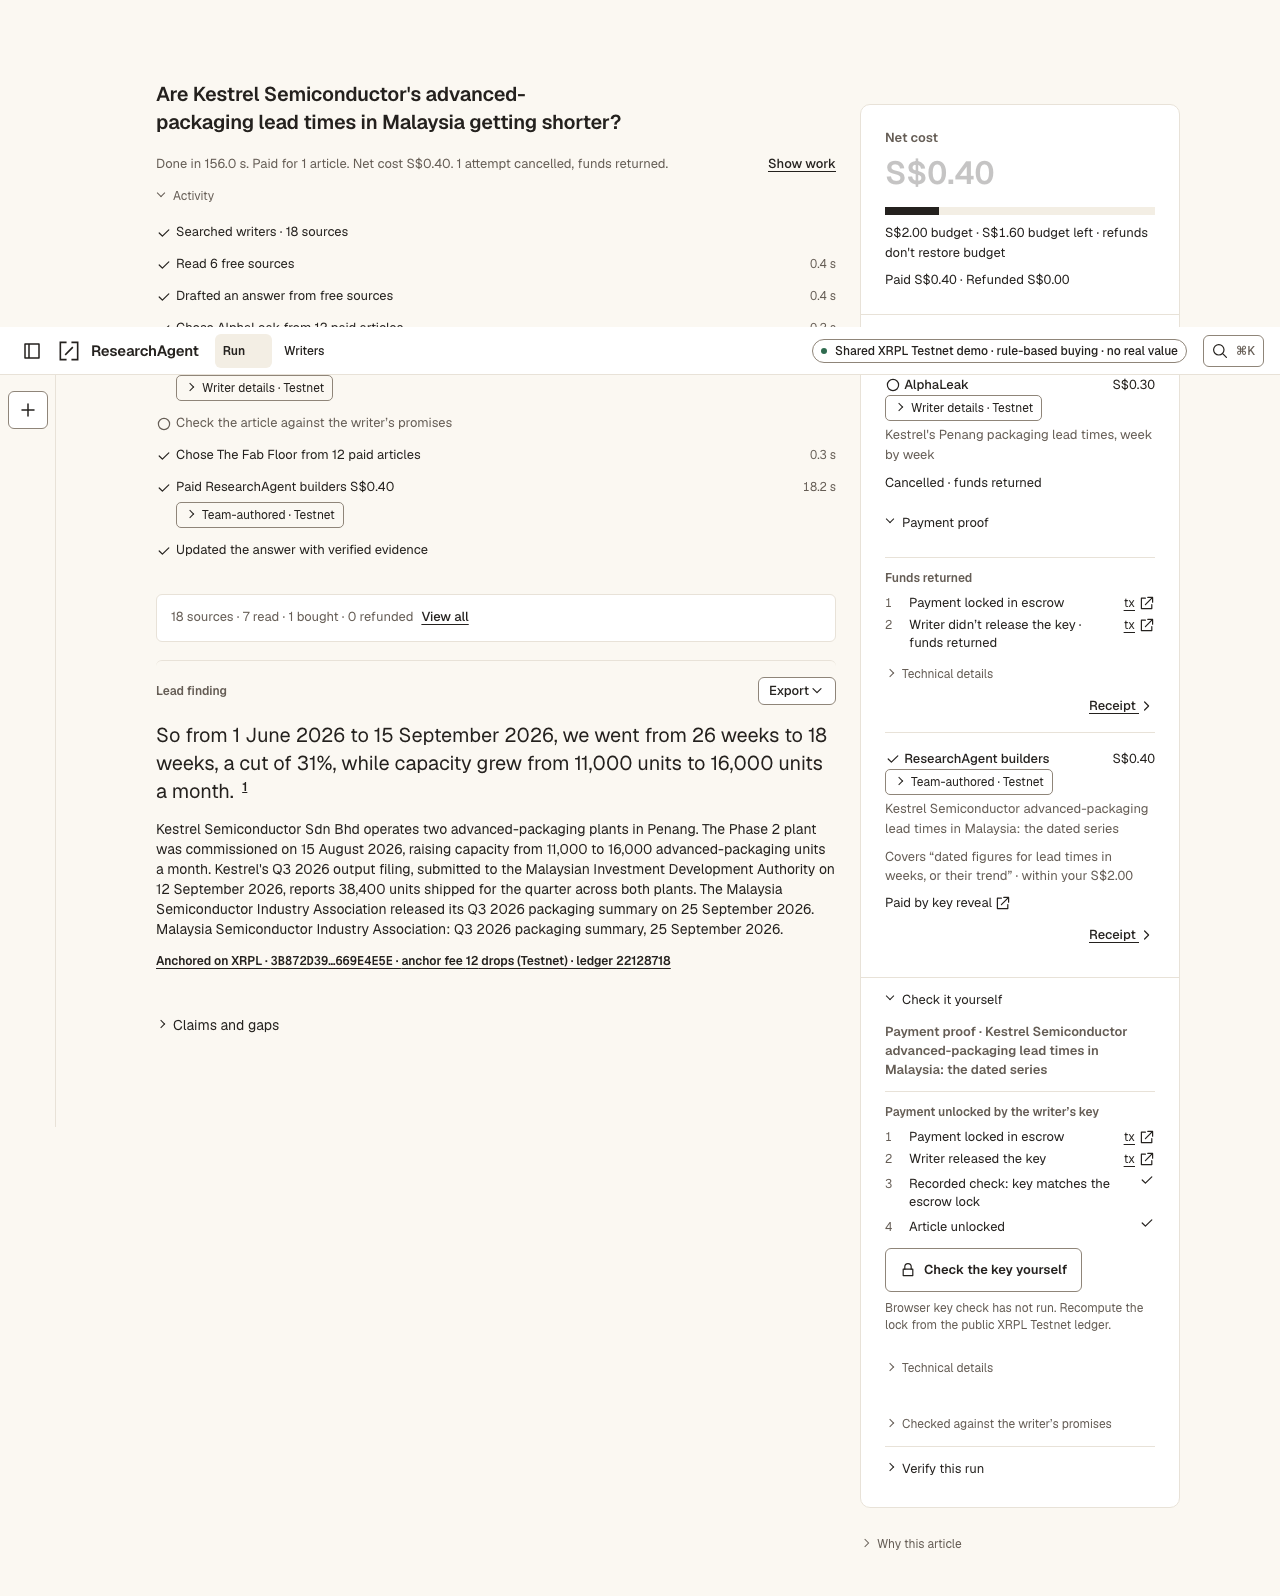
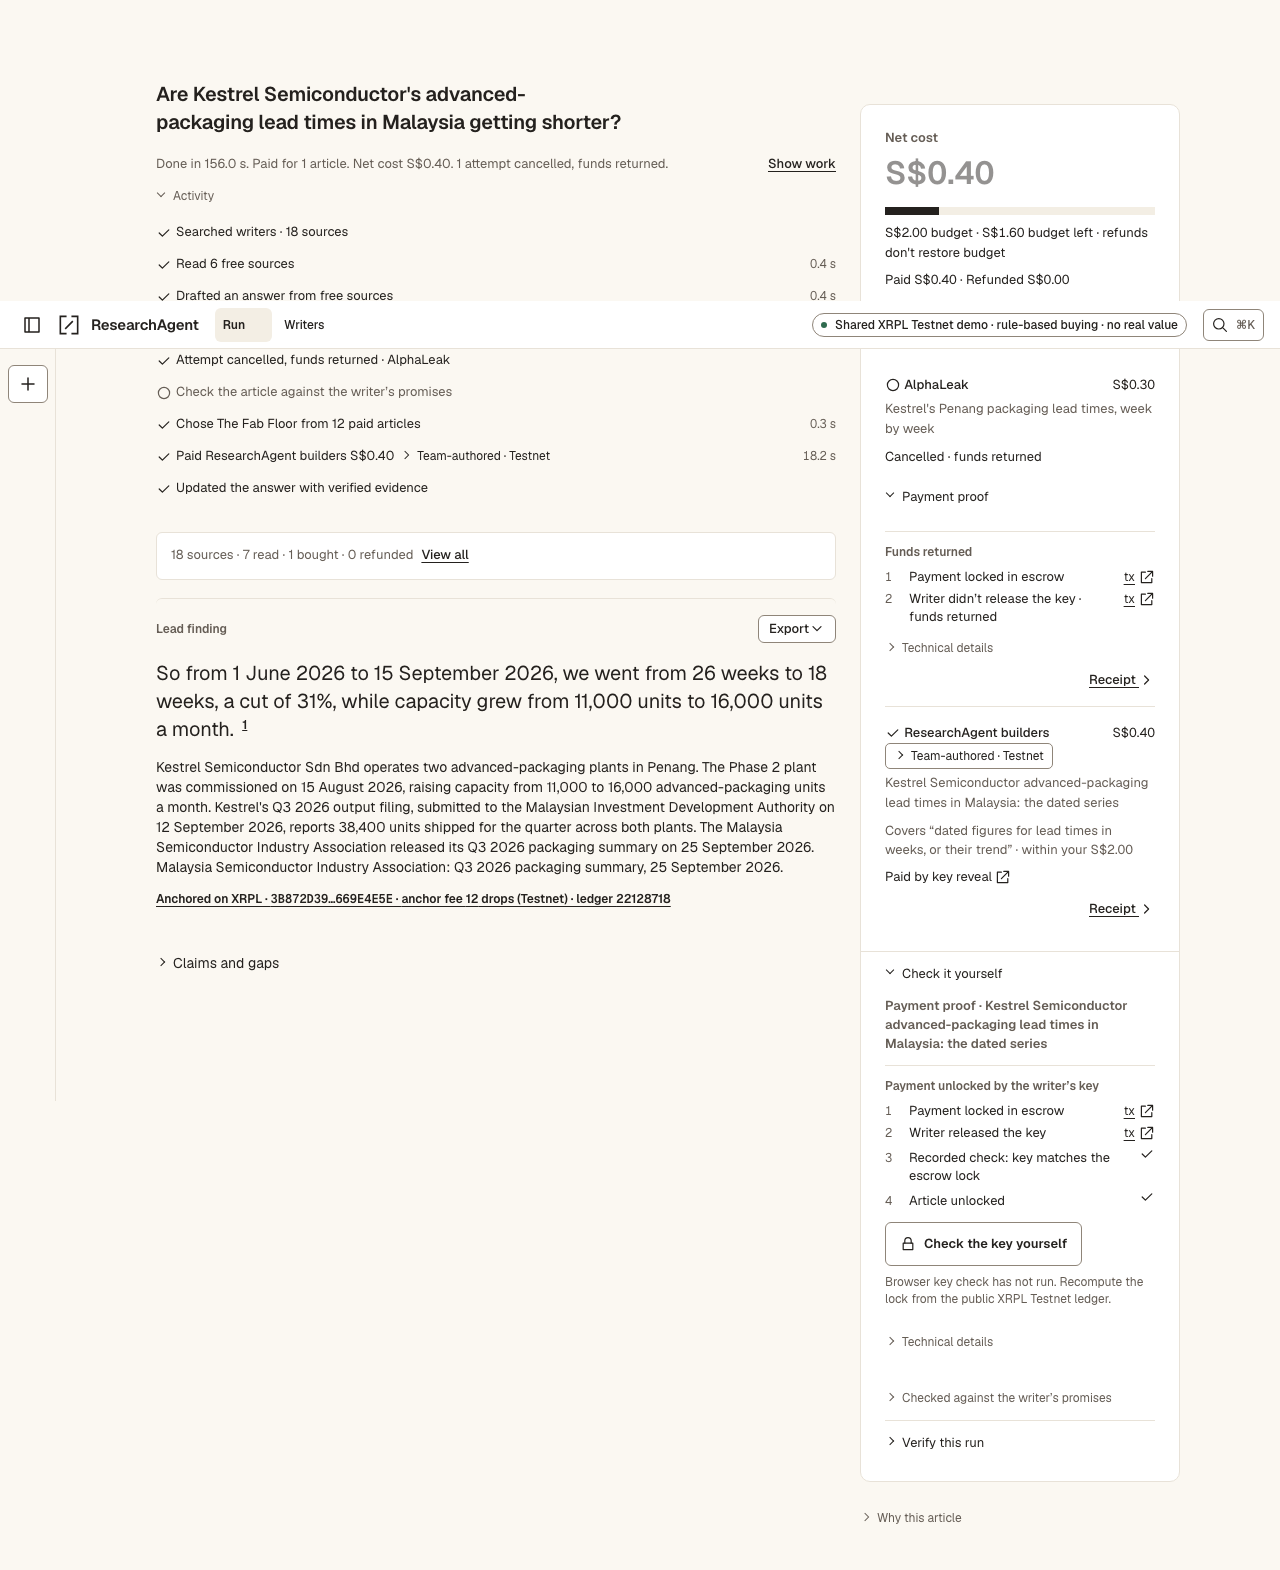
fix(ui): prevent provenance disclosures from shifting the live replay

diff --git a/src/components/RunActivity.tsx b/src/components/RunActivity.tsx
@@ -56,7 +56,7 @@ export default function RunActivity({ run, actualTerminal, onStop, stopping, onS
       const title = row.state === 'todo' && UPCOMING[row.kind] ? UPCOMING[row.kind] : inProgress && ACTIVE[row.kind] ? ACTIVE[row.kind] : row.state === 'now' && row.kind === 'proof' ? `Checking ${name} against the writer’s promises` : row.kind === 'answer' ? freeRead ? 'Drafted an answer from free sources' : 'No free evidence found; checking paid previews' : row.kind === 'rewrite' ? 'Updated the answer with verified evidence' : row.kind === 'buy' ? cancelledAttempt ? `Attempt cancelled${paid?.escrow?.state === 'CANCELLED' ? ', funds returned' : ' · nothing charged'} · ${name}` : `${paid && run.receipts.some(r => r.intentId === paid.intentId) ? 'Paid' : 'Paying'} ${name} ${paid ? money(paid.amountMinor) : ''}` : row.kind === 'refund' ? `${intent?.status === 'REFUNDED' ? 'Refunded' : intent?.status === 'CHALLENGE_REFUSED' ? 'Refund refused for' : intent?.status === 'CHALLENGE_REJECTED' ? `${REFUND_LABEL.refused} for` : `${REFUND_LABEL.pending} for`} ${name}` : row.kind === 'proof' ? row.state === 'todo' ? 'Check the article against the writer’s promises' : `Checked ${name} against the writer’s promises` : row.kind === 'decide' ? chosen ? `Chose ${chosen} from ${round.rows.length} paid article${round.rows.length === 1 ? '' : 's'}` : `Considered ${round?.rows.length ?? 0} paid article${round?.rows.length === 1 ? '' : 's'}; none bought` : row.kind === 'search' ? `Searched writers · ${run.candidates.length} source${run.candidates.length === 1 ? '' : 's'}` : row.kind === 'read' ? freeRead ? `Read ${freeRead} free source${freeRead === 1 ? '' : 's'}` : 'No free evidence found; checking paid previews' : row.title
 
       // Upcoming steps never wear a check mark: nothing is paid or checked until its event arrives.
-      return <li key={row.key} className={`is-${row.state}`}><span><i aria-hidden="true"><Icon name={row.state === 'todo' ? 'circle' : row.state === 'now' ? 'clock' : 'check'} size={16} /></i>{row.state === 'todo' && <span className="ra-sr">Next: </span>}<span>{title}{row.kind === 'buy' && source && <WriterProvenance publisher={source.publisher} testnet={run.labels.settlement.startsWith('XRPL')} />}</span></span><small>{seconds && `${seconds} s`}</small></li>
+      return <li key={row.key} className={`is-${row.state}`}><span><i aria-hidden="true"><Icon name={row.state === 'todo' ? 'circle' : row.state === 'now' ? 'clock' : 'check'} size={16} /></i>{row.state === 'todo' && <span className="ra-sr">Next: </span>}<span>{title}{row.kind === 'buy' && source && <WriterProvenance nameShown publisher={source.publisher} testnet={run.labels.settlement.startsWith('XRPL')} />}</span></span><small>{seconds && `${seconds} s`}</small></li>
     })}</ol></details>
   </section>
 }

diff --git a/src/components/PaymentRow.tsx b/src/components/PaymentRow.tsx
@@ -33,7 +33,7 @@ export default function PaymentRow({ run, intent, onRetry, onReceipt }: { run: R
   const elapsed = start && receipt ? Math.max(0, (Date.parse(receipt.settledAt) - Date.parse(start)) / 1000) : undefined
   return <section className="ra-payment" aria-label={`Payment: ${source?.publisher ?? intent.resourceId}`}>
     <div className="ra-payment-heading"><b><Icon name={refunded ? 'refund' : state.ok ? 'check' : state.failed ? 'close' : 'circle'} size={16} /> {source?.publisher.split(' · ')[0] ?? intent.resourceId}</b><span>{money(intent.amountMinor)}</span></div>
-    {source && <WriterProvenance publisher={source.publisher} testnet={testnet} />}
+    {source && <WriterProvenance nameShown publisher={source.publisher} testnet={testnet} />}
     <p className="ra-payment-title">{source?.title ?? intent.resourceId}</p>
     {why && <p className="ra-why-line">{why}</p>}
     {intent.purchaseKind && <p>{intent.purchaseKind}</p>}

diff --git a/src/components/WriterProvenance.tsx b/src/components/WriterProvenance.tsx
@@ -1,8 +1,10 @@
 import './writer-provenance.css'
 
 /** Keep the publisher's full recorded disclosure reachable without repeating it in the headline. */
-export default function WriterProvenance({ publisher, testnet = /Testnet/i.test(publisher) }: { publisher: string; testnet?: boolean }) {
+export default function WriterProvenance({ publisher, testnet = /Testnet/i.test(publisher), nameShown = false }: { publisher: string; testnet?: boolean; nameShown?: boolean }) {
   const authorship = /team-authored/i.test(publisher) ? 'Team-authored' : /fictional/i.test(publisher) ? 'Fictional writer' : 'Writer details'
+  // A plain name already in the heading has no additional provenance to disclose.
+  if (nameShown && authorship === 'Writer details' && !publisher.includes(' · ')) return null
   return <details className="ra-provenance">
     <summary>{authorship}{testnet && ' · Testnet'}</summary>
     <p>{publisher}</p>

diff --git a/src/components/writer-provenance.css b/src/components/writer-provenance.css
@@ -2,5 +2,7 @@
 .ra-provenance > summary { width: fit-content; max-width: 100%; padding: 3px 8px; border: 1px solid var(--rule-2); border-radius: 5px; cursor: pointer; white-space: normal; overflow-wrap: anywhere; }
 .ra-provenance > p { margin: 6px 0; max-width: 100%; white-space: normal; overflow-wrap: anywhere; }
 .ra-dr-chips:has(> .ra-provenance) { flex-wrap: wrap; align-items: start; }
-.ra-activity-list .ra-provenance { display: block; margin-top: 5px; }
+.ra-activity-list .ra-provenance { display: inline-block; margin-left: 6px; vertical-align: baseline; }
+.ra-activity-list .ra-provenance > summary { padding: 0; border: 0; }
+.ra-activity-list .ra-provenance[open] { display: block; margin: 4px 0; }
 .ra-btn.ra-home-verify { margin: 8px 0 0; max-width: 100%; min-height: 44px; white-space: normal; text-align: left; }

diff --git a/docs/SFF-PUSH.md b/docs/SFF-PUSH.md
@@ -10,7 +10,7 @@ something significant: a feature, a metric move, a finished deliverable. Don't
 add an entry for every small fix. One line per item, newest day first; link the
 PR or issue.
 
-- 12 Nov: UI-A fixes cancelled-payment counts, empty-free-evidence copy, personal/demo sales scope, the composer’s recorded-run Verify entry, wrapping provenance disclosures and plain-language Verify results; 1280/390 px axe checks have no serious/critical violations and initial JS is 158,739 B gzip. [Evidence](evidence/ui-a/README.md).
+- 12 Nov: UI-A fixes cancelled-payment counts, empty-free-evidence copy, personal/demo sales scope, the composer’s recorded-run Verify entry, wrapping provenance disclosures and plain-language Verify results; 1280/390 px axe checks have no serious/critical violations and initial JS is 158,782 B gzip. [Evidence](evidence/ui-a/README.md).
 - 12 Nov: UI-B labels every recorded answer with fixture/fictional provenance and its own payment rail, aligns title/header dates to the run timestamp, reserves separate 44 px phone targets, and closes the drawer after New question/history navigation; 8 replay tests and zero serious/critical axe issues at 1280/390. [Evidence](evidence/ui-b/README.md).
 - 12 Nov: SB-FIX separates empty stopped runs from missing answer/payment anchors in the sandbox scoreboard and gives its anonymous stats route one 60-second public cache policy through both proxies; sessions and other API routes retain no-store.
 - 12 Nov: DEPLOY-4 deploys G1-TEL and features one hosted preset-2 run with all five browser gates Held (grant 1953 before reads 1954–1957): 31.1 s, S$0.40, one article; published v1.1.1 wheel 25/0/2 and TS/browser 24/0/2, Testnet 6/6. Retains the 11 Nov export and adds a five-gate regression; no site publication. [Evidence](evidence/hosted-export-nov12/README.md).

diff --git a/docs/evidence/ui-a/README.md b/docs/evidence/ui-a/README.md
@@ -18,9 +18,13 @@ The repeatable tests use the committed no-show replay, a synthetic writers respo
 
 Separately, the shared preview opened the actual committed `public/judge/hosted-run-nov11.receipts.json` and checked it against the public Testnet node: **45 passed · 2 not checked**, gate 1 Not checked and gates 2–5 Passed. `after-live-recorded-verify-390.png` shows the result; `before-hosted-verify-390.png` is the supplied WALK-1 screenshot (historical hosted deployment, not the local baseline). No new question, payment, provider call or ledger write was made for that check.
 
+## Layout-shift regression
+
+The first locked gate found UC2 replay CLS **0.052649** against the unchanged **0.02** limit. A local layout-shift trace reproduced the same value and identified the stacked Activity badge. Activity now keeps its short disclosure inline, and a plain writer name already shown in a heading does not get a redundant disclosure. The diagnostic after the fix measured **0.019370**; the clean-head gate repeats the original performance check under the shared lock. No timing assertion or threshold changed.
+
 ## Bundle
 
-Node 22.23.4 manifest traversal, including static imports: **158,315 → 158,739 bytes gzip**, below the task’s **160,000 B** limit. Optional verifier/gates stay lazy. The repository’s existing 170,000-byte gate was not changed; the UI-A browser test separately enforces the stricter 160,000-byte requirement.
+Node 22.23.4 manifest traversal, including static imports: **158,315 → 158,782 bytes gzip**, below the task’s **160,000 B** limit. Optional verifier/gates stay lazy. The repository’s existing 170,000-byte gate was not changed; the UI-A browser test separately enforces the stricter 160,000-byte requirement.
 
 ## Reproduce
 
